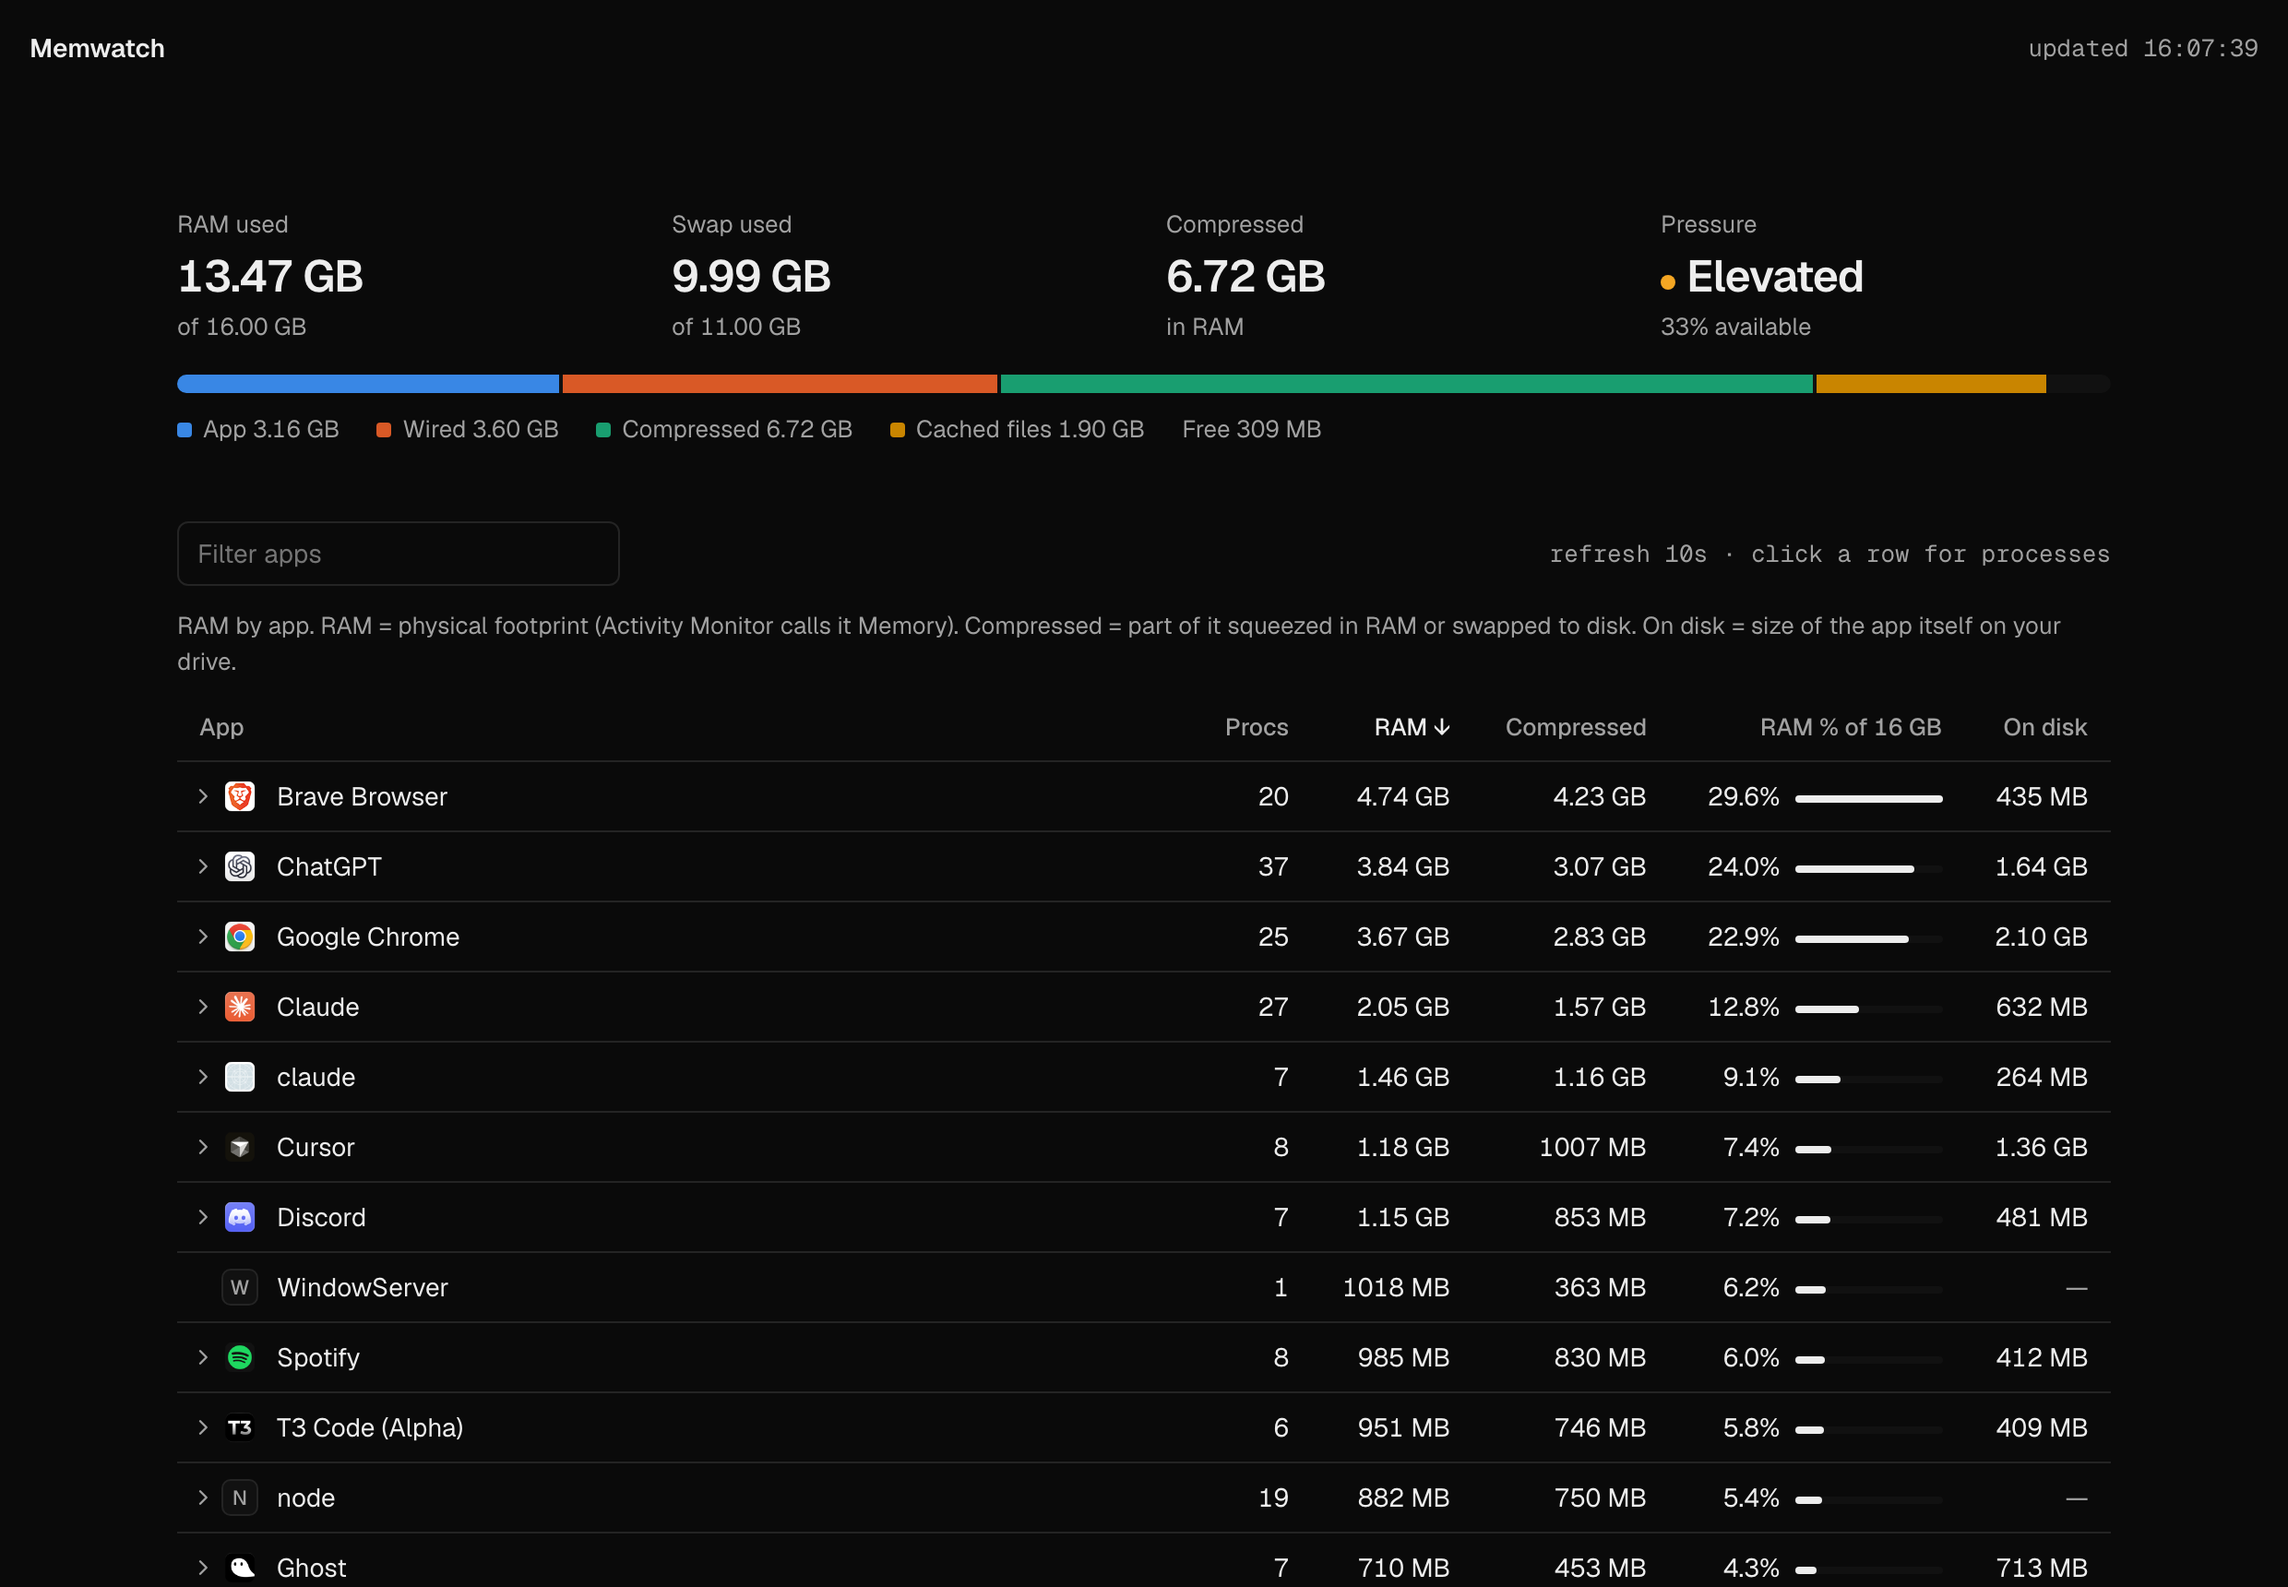
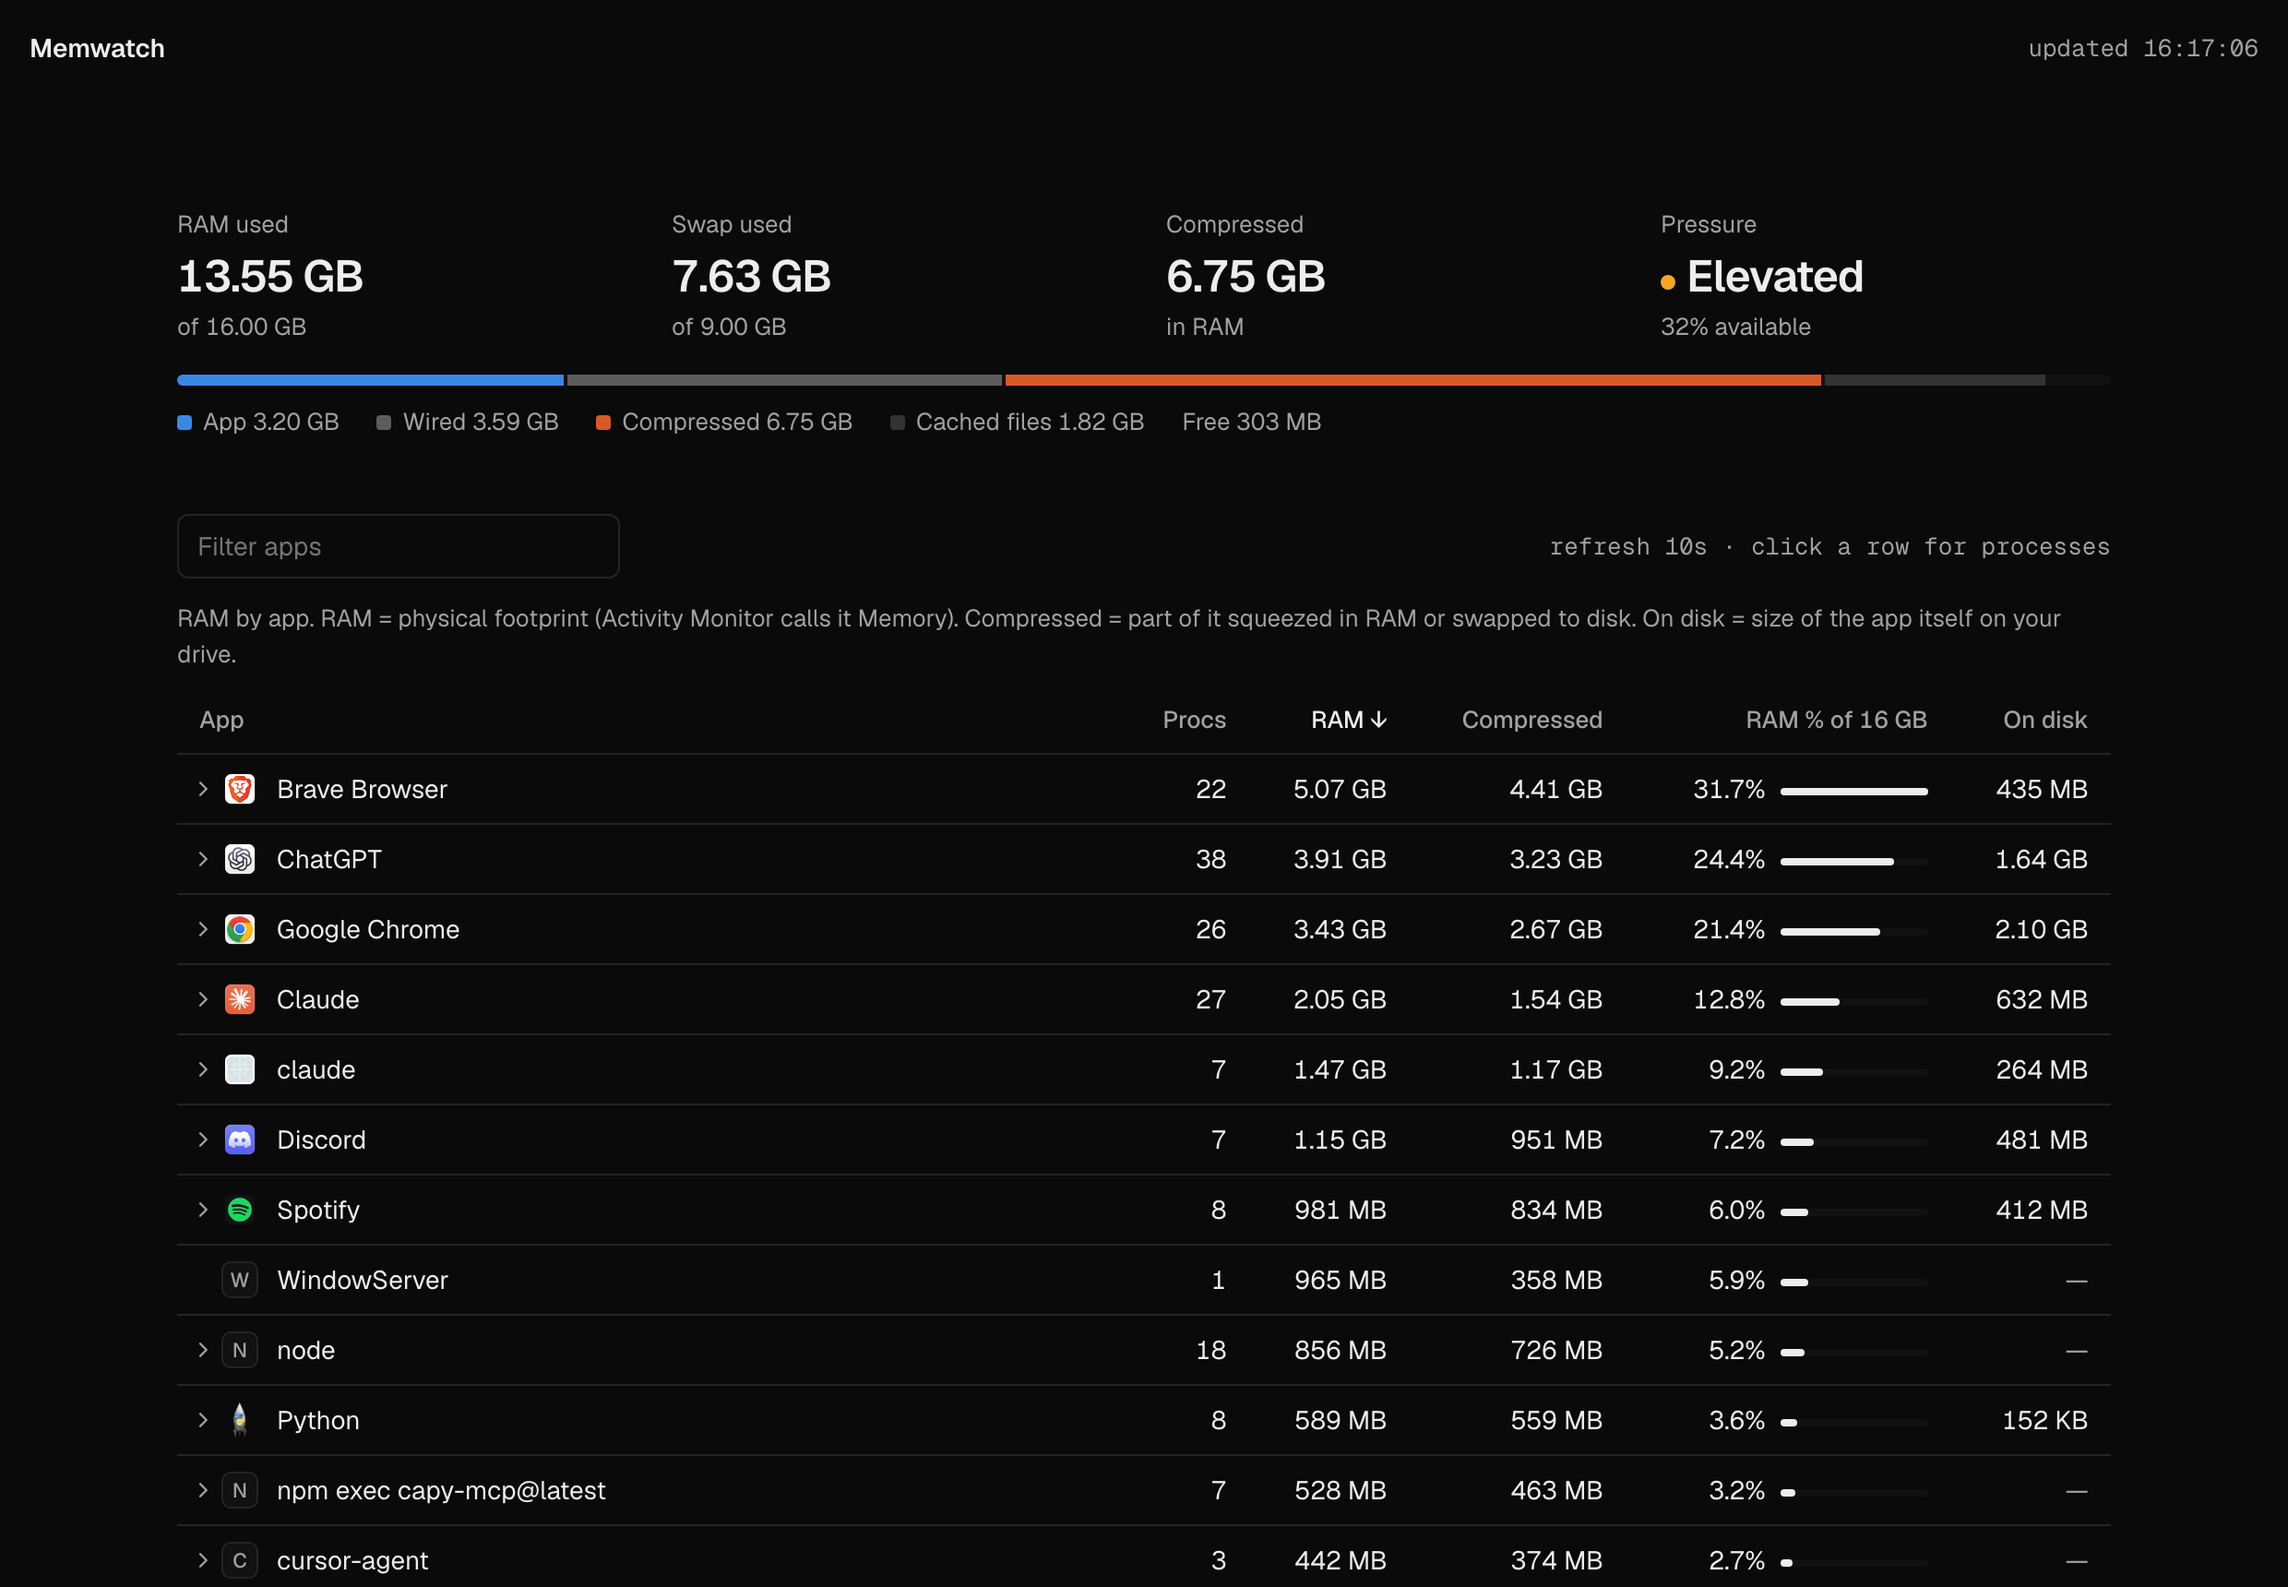
Calmer memory bar: thinner, two accent colors

diff --git a/memwatch.py b/memwatch.py
@@ -164,9 +164,9 @@ PAGE = r"""<!doctype html><html lang="en"><head><meta charset="utf-8">
 <link href="https://fonts.googleapis.com/css2?family=Geist:wght@400..600&family=Geist+Mono:wght@400..600&display=swap" rel="stylesheet">
 <style>
 :root{--bg:#fff;--bg2:#fafafa;--fg:#171717;--fg2:#666;--border:#eaeaea;--strong:#d4d4d4;
-  --seg1:#2a78d6;--seg2:#eb6834;--seg3:#1baf7a;--seg4:#eda100;--warn:#f5a623;--err:#e5484d;--ok:#45a557;--sk:#ededed}
+  --seg1:#2a78d6;--seg2:#a1a1a1;--seg3:#eb6834;--seg4:#d4d4d4;--warn:#f5a623;--err:#e5484d;--ok:#45a557;--sk:#ededed}
 @media (prefers-color-scheme:dark){:root{--bg:#0a0a0a;--bg2:#111;--fg:#ededed;--fg2:#a1a1a1;--border:#242424;--strong:#3a3a3a;
-  --seg1:#3987e5;--seg2:#d95926;--seg3:#199e70;--seg4:#c98500;--sk:#1f1f1f}}
+  --seg1:#3987e5;--seg2:#5c5c5c;--seg3:#d95926;--seg4:#333;--sk:#1f1f1f}}
 *{box-sizing:border-box;margin:0}
 /* thin floating scrollbar: no track, thumb inset by a bg-colored border */
 ::-webkit-scrollbar{width:12px;height:12px;background:transparent}
@@ -203,8 +203,8 @@ h1{font-size:14px;font-weight:600}
 .kpi .v{font-size:24px;font-weight:600;letter-spacing:-.02em;font-variant-numeric:tabular-nums}
 .kpi .s{color:var(--fg2);font-size:13px;font-variant-numeric:tabular-nums}
 .dot{display:inline-block;width:8px;height:8px;border-radius:50%;margin-right:6px;vertical-align:1px}
-/* categorical slots 1-4 in fixed order (validated light+dark); 2px surface gap between segments */
-.bar{display:flex;gap:2px;height:10px;border-radius:5px;overflow:hidden;background:var(--bg2)}
+/* two accents for what matters (app blue, compressed orange; validated light+dark), neutrals for the rest */
+.bar{display:flex;gap:2px;height:6px;border-radius:3px;overflow:hidden;background:var(--bg2)}
 .bar span{min-width:0}
 .legend{display:flex;flex-wrap:wrap;gap:4px 20px;margin:10px 0 40px;font-size:13px;color:var(--fg2);font-variant-numeric:tabular-nums}
 .legend i{display:inline-block;width:8px;height:8px;border-radius:2px;margin-right:6px}
